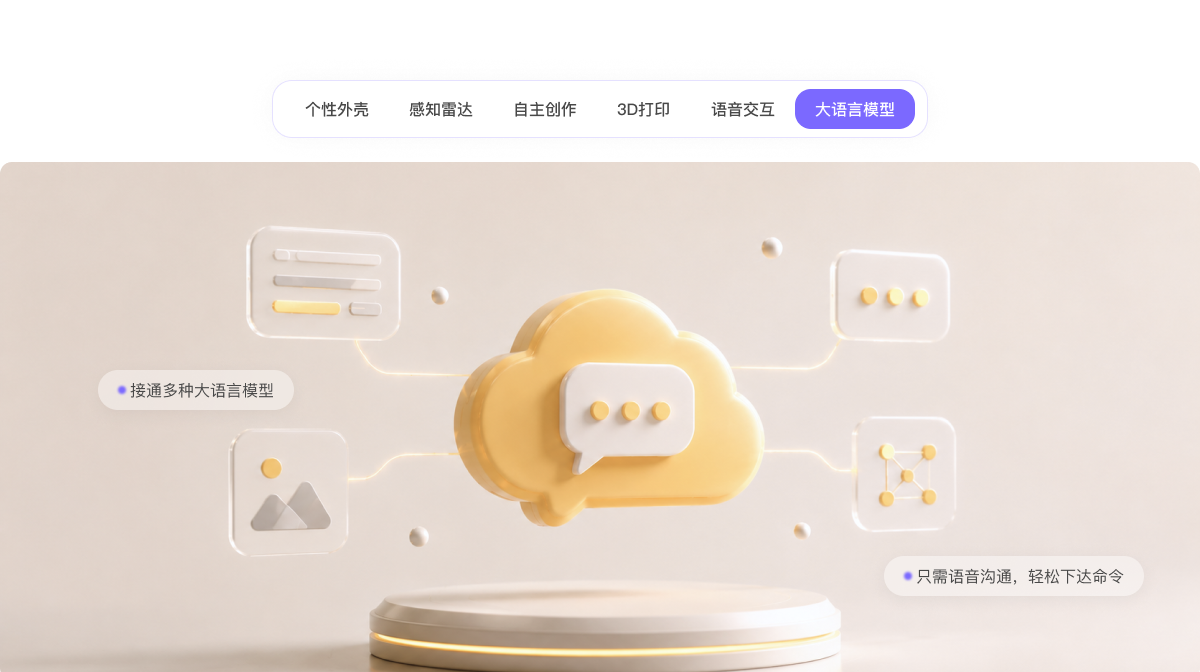
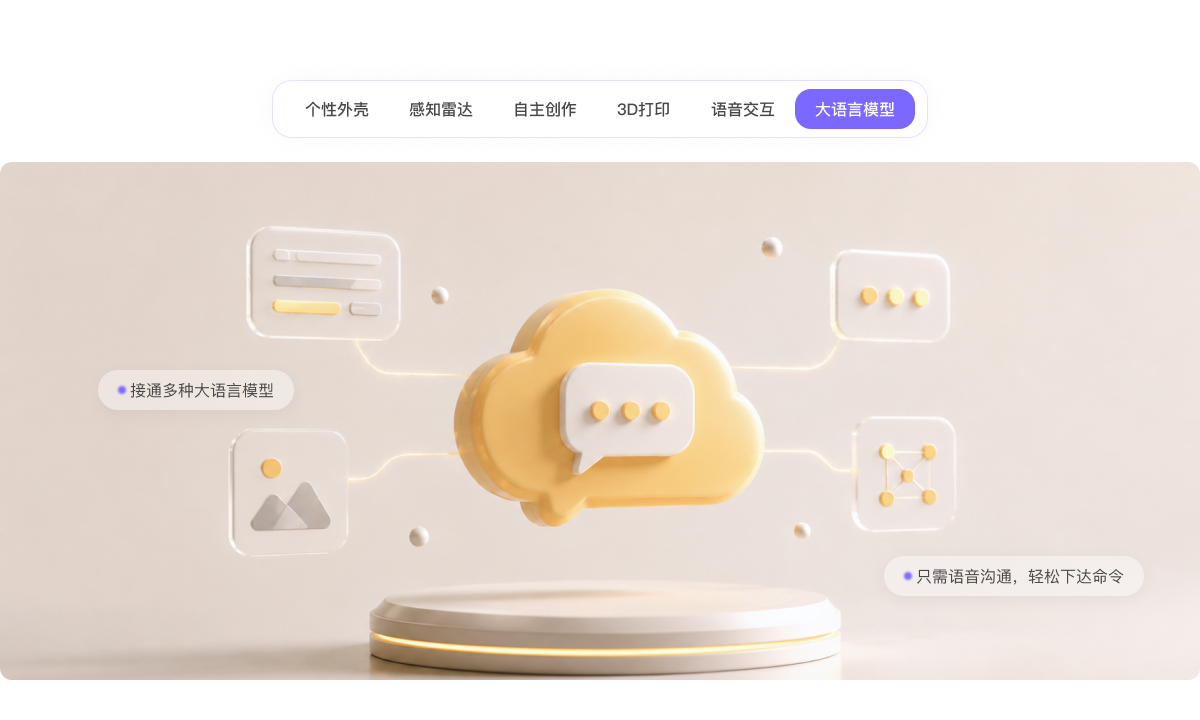
Update web design

diff --git a/index.html b/index.html
@@ -93,10 +93,10 @@
       top: 98px;
       display: block;
       width: 408px;
-      height: 405px;
+      height: auto;
       margin: 0;
       border-radius: 8px;
-      object-fit: cover;
+      object-fit: contain;
     }
 
     .size-detail-frame {
@@ -315,6 +315,48 @@
       white-space: nowrap;
     }
 
+    .size-cable-frame {
+      position: relative;
+      width: 1224px;
+      height: 522px;
+      margin: 0 auto;
+    }
+
+    .asset-frame.content .size-cable-base {
+      width: 1224px;
+      height: 522px;
+      margin: 0;
+    }
+
+    .size-cable-right {
+      position: absolute;
+      top: 132px;
+      left: 728px;
+      display: flex;
+      width: 514px;
+      flex-direction: column;
+      align-items: center;
+      gap: 32px;
+    }
+
+    .asset-frame.content .size-cable-wireframe {
+      width: 514px;
+      height: auto;
+      margin: 0;
+    }
+
+    .size-cable-caption {
+      width: max-content;
+      max-width: 560px;
+      margin: 0;
+      color: #303030;
+      font-size: 16px;
+      font-weight: 400;
+      line-height: 24px;
+      text-align: center;
+      white-space: nowrap;
+    }
+
     .hero-carousel {
       position: relative;
       width: 1440px;
@@ -337,6 +379,40 @@
       opacity: 1;
     }
 
+    .hero-pagination {
+      position: absolute;
+      left: 50%;
+      bottom: 32px;
+      z-index: 3;
+      display: flex;
+      align-items: center;
+      gap: 12px;
+      transform: translateX(-50%);
+    }
+
+    .hero-page-dot {
+      width: 14px;
+      height: 14px;
+      padding: 0;
+      border: 1px solid rgba(255, 255, 255, .72);
+      border-radius: 999px;
+      background: rgba(255, 255, 255, .55);
+      box-shadow: 0 2px 8px rgba(70, 88, 120, .12);
+      cursor: pointer;
+      transition: width .25s ease, background .25s ease, box-shadow .25s ease;
+    }
+
+    .hero-page-dot.is-active {
+      width: 44px;
+      background: #7468ff;
+      box-shadow: 0 4px 12px rgba(116, 104, 255, .28);
+    }
+
+    .hero-page-dot:focus-visible {
+      outline: 2px solid rgba(116, 104, 255, .75);
+      outline-offset: 3px;
+    }
+
     .feature-switcher {
       position: relative;
       width: 1200px;
@@ -347,29 +423,62 @@
       width: 1200px;
     }
 
+    .feature-switcher::before {
+      position: absolute;
+      top: 36px;
+      left: 220px;
+      z-index: 1;
+      width: 760px;
+      height: 124px;
+      border-radius: 0;
+      background: #fff url("assets/background.png?v=20260623") top center / 1440px auto repeat-y;
+      content: "";
+    }
+
     .feature-tab-hit-area {
       position: absolute;
-      top: 72px;
-      left: 272px;
+      top: 70px;
+      left: 260px;
       z-index: 2;
-      display: grid;
-      width: 656px;
-      height: 72px;
+      display: flex;
+      width: 680px;
+      height: 54px;
+      align-items: center;
+      justify-content: space-between;
+      padding: 5px 8px;
       grid-template-columns: repeat(6, 1fr);
+      border: 1px solid #d7d2ff;
+      border-radius: 28px;
+      background: rgba(255, 255, 255, .88);
+      box-shadow: 0 8px 22px rgba(91, 70, 211, .10);
     }
 
     .feature-tab {
+      min-width: 96px;
+      height: 38px;
+      padding: 0 16px;
       border: 0;
-      color: transparent;
-      background: rgba(123, 105, 255, .001);
+      border-radius: 20px;
+      color: #303030;
+      background: transparent;
       cursor: pointer;
+      font-family: inherit;
+      font-size: 15px;
+      font-weight: 500;
+      line-height: 38px;
+      white-space: nowrap;
+      transition: color .2s ease, background .2s ease, box-shadow .2s ease;
+    }
+
+    .feature-tab[aria-selected="true"] {
+      color: #fff;
+      background: #7468ff;
+      box-shadow: 0 8px 18px rgba(116, 104, 255, .22);
     }
 
     .feature-tab:focus-visible {
-      border-radius: 18px;
       outline: 2px solid rgba(123, 105, 255, .8);
-      outline-offset: -6px;
-      background: rgba(123, 105, 255, .08);
+      outline-offset: 2px;
     }
 
     .logo-marquee {
@@ -1065,7 +1174,7 @@
       height: 956px;
     }
 
-    .video-main-cover {
+    .asset-frame.content .video-main-cover {
       position: absolute;
       top: 80px;
       left: 0;
@@ -1075,10 +1184,15 @@
       height: 675px;
       object-fit: cover;
       border-radius: 8px;
+      margin: 0;
     }
 
-    .video-main-cover.is-active {
+    .asset-frame.content .video-main-cover.is-active {
       display: block;
+    }
+
+    .asset-frame.content .video-main-cover[hidden] {
+      display: none !important;
     }
 
     .video-player-layer {
@@ -1289,6 +1403,12 @@
         <img class="hero-slide" src="assets/banner/banner-02.png?v=20260616" width="1440" height="783" alt="XAtom banner 2">
         <img class="hero-slide" src="assets/banner/banner-03.png?v=20260616" width="1440" height="783" alt="XAtom banner 3">
         <img class="hero-slide" src="assets/banner/banner-04.png?v=20260616" width="1440" height="783" alt="XAtom banner 4">
+        <div class="hero-pagination" aria-label="Banner 页码">
+          <button class="hero-page-dot is-active" type="button" aria-label="切换到第 1 张" aria-current="true" data-hero-page="0"></button>
+          <button class="hero-page-dot" type="button" aria-label="切换到第 2 张" data-hero-page="1"></button>
+          <button class="hero-page-dot" type="button" aria-label="切换到第 3 张" data-hero-page="2"></button>
+          <button class="hero-page-dot" type="button" aria-label="切换到第 4 张" data-hero-page="3"></button>
+        </div>
       </div>
     </section>
 
@@ -1304,7 +1424,7 @@
           <p>XAtom 是一款基于智能硬件打造的微型 AI 交互设备，以“小体积、高融合、强智能”为核心设计理念，将人工智能能力浓缩于极致轻巧的硬件形态之中。</p>
           <p>灵活的模块化结构，XAtom 能够无缝嵌入各类日常物品与生活场景，从家居摆件、玩具潮玩到车载设备、文创产品，让传统物件拥有感知、理解与交流的能力。</p>
         </div>
-        <img class="intro-product-img" src="assets/intro/product-crop.png?v=20260623" width="408" height="405" alt="XAtom 产品三色展示">
+        <img class="intro-product-img" src="assets/intro/product.png?v=20260624" width="813" height="909" alt="XAtom 产品三色展示">
       </div>
     </section>
 
@@ -1315,14 +1435,14 @@
 
     <section class="asset-frame content" id="features-main" aria-label="产品特色主图" style="--asset-width: 1200px">
       <div class="feature-switcher" data-feature-switcher>
-        <img id="feature-image" src="assets/04.png?v=20260616" width="1200" height="720" alt="XAtom 产品特色：个性外壳">
+        <img id="feature-image" src="assets/04-html-tabs.png?v=20260624" width="1200" height="720" alt="XAtom 产品特色：个性外壳">
         <div class="feature-tab-hit-area" role="tablist" aria-label="产品特色切换">
-          <button class="feature-tab" type="button" role="tab" aria-selected="true" data-feature-name="个性外壳" data-feature-src="assets/04.png" data-feature-height="720">个性外壳</button>
-          <button class="feature-tab" type="button" role="tab" aria-selected="false" data-feature-name="感知雷达" data-feature-src="assets/产品特色/Property 1=感知雷达.png" data-feature-height="720">感知雷达</button>
-          <button class="feature-tab" type="button" role="tab" aria-selected="false" data-feature-name="自由创作" data-feature-src="assets/产品特色/Property 1=自由创作.png" data-feature-height="720">自由创作</button>
-          <button class="feature-tab" type="button" role="tab" aria-selected="false" data-feature-name="3D打印" data-feature-src="assets/产品特色/Property 1=3D打印.png" data-feature-height="720">3D打印</button>
-          <button class="feature-tab" type="button" role="tab" aria-selected="false" data-feature-name="语音交互" data-feature-src="assets/产品特色/Property 1=语音交互.png" data-feature-height="720">语音交互</button>
-          <button class="feature-tab" type="button" role="tab" aria-selected="false" data-feature-name="大语言模型" data-feature-src="assets/产品特色/Property 1=大语言模型.png" data-feature-height="672">大语言模型</button>
+          <button class="feature-tab" type="button" role="tab" aria-selected="true" data-feature-name="个性外壳" data-feature-src="assets/04-html-tabs.png" data-feature-height="720">个性外壳</button>
+          <button class="feature-tab" type="button" role="tab" aria-selected="false" data-feature-name="感知雷达" data-feature-src="assets/产品特色/Property 1=感知雷达-html-tabs.png" data-feature-height="720">感知雷达</button>
+          <button class="feature-tab" type="button" role="tab" aria-selected="false" data-feature-name="自由创作" data-feature-src="assets/产品特色/Property 1=自由创作-html-tabs.png" data-feature-height="720">自由创作</button>
+          <button class="feature-tab" type="button" role="tab" aria-selected="false" data-feature-name="3D打印" data-feature-src="assets/产品特色/Property 1=3D打印-html-tabs.png" data-feature-height="720">3D打印</button>
+          <button class="feature-tab" type="button" role="tab" aria-selected="false" data-feature-name="语音交互" data-feature-src="assets/产品特色/Property 1=语音交互-html-tabs.png" data-feature-height="720">语音交互</button>
+          <button class="feature-tab" type="button" role="tab" aria-selected="false" data-feature-name="大语言模型" data-feature-src="assets/产品特色/Property 1=大语言模型-clean.png" data-feature-height="720">大语言模型</button>
         </div>
       </div>
     </section>
@@ -1339,7 +1459,7 @@
     <section class="asset-frame content" id="video" aria-label="视频介绍内容" style="--asset-width: 1200px">
       <div class="video-showcase" data-video-showcase>
         <img class="video-cover-img" src="assets/06.png?v=20260616-cover" width="1200" height="956" alt="XAtom 视频介绍封面">
-        <img class="video-main-cover" data-video-main-cover alt="当前视频封面">
+        <img class="video-main-cover" data-video-main-cover alt="" hidden aria-hidden="true">
         <div class="video-player-layer" data-video-player-layer>
           <video id="main-video" src="assets/视频介绍/01.mp4?v=20260616" preload="metadata" playsinline controls></video>
         </div>
@@ -1405,7 +1525,13 @@
     </section>
 
     <section class="asset-frame content" id="size-cable" aria-label="Type-C 充电线尺寸" style="--asset-width: 1224px">
-      <img src="assets/09.png?v=20260616" width="1224" height="522" alt="XAtom Type-C 充电线尺寸">
+      <div class="size-cable-frame">
+        <img class="size-cable-base" src="assets/09-wireframe-base.png?v=20260624b" width="1224" height="522" alt="XAtom Type-C 充电线尺寸">
+        <div class="size-cable-right">
+          <img class="size-cable-wireframe" src="assets/线框图.png?v=20260624" width="676" height="272" alt="XAtom Type-C 线框尺寸图">
+          <p class="size-cable-caption">XAtom机芯长宽高约为2.9cm，约等于三个type-c 充电口宽度</p>
+        </div>
+      </div>
     </section>
 
     <section class="title-frame" id="scenes-title" aria-label="多场景玩法标题">
@@ -1620,17 +1746,36 @@
       if (!carousel) return;
 
       const slides = [...carousel.querySelectorAll(".hero-slide")];
+      const dots = [...carousel.querySelectorAll("[data-hero-page]")];
       let active = 0;
 
       slides.forEach(slide => {
         new Image().src = slide.currentSrc || slide.src;
       });
 
-      setInterval(() => {
+      const showSlide = next => {
         slides[active].classList.remove("is-active");
-        active = (active + 1) % slides.length;
+        dots[active]?.classList.remove("is-active");
+        dots[active]?.removeAttribute("aria-current");
+        active = (next + slides.length) % slides.length;
         slides[active].classList.add("is-active");
+        dots[active]?.classList.add("is-active");
+        dots[active]?.setAttribute("aria-current", "true");
+      };
+
+      let timer = setInterval(() => {
+        showSlide(active + 1);
       }, 4000);
+
+      dots.forEach(dot => {
+        dot.addEventListener("click", () => {
+          clearInterval(timer);
+          showSlide(Number(dot.dataset.heroPage));
+          timer = setInterval(() => {
+            showSlide(active + 1);
+          }, 4000);
+        });
+      });
     })();
 
     (() => {
@@ -1643,7 +1788,7 @@
       const activate = tab => {
         const src = tab.dataset.featureSrc;
         const name = tab.dataset.featureName;
-        image.src = `${src}?v=20260616`;
+        image.src = `${src}?v=20260624d`;
         image.alt = `XAtom 产品特色：${name}`;
         image.height = Number(tab.dataset.featureHeight || 720);
         tabs.forEach(item => {
@@ -1653,7 +1798,7 @@
       };
 
       tabs.forEach((tab, index) => {
-        new Image().src = `${tab.dataset.featureSrc}?v=20260616`;
+        new Image().src = `${tab.dataset.featureSrc}?v=20260624d`;
         tab.tabIndex = index === 0 ? 0 : -1;
         tab.addEventListener("click", () => {
           activate(tab);
@@ -1759,12 +1904,16 @@
         const coverSrc = thumb.dataset.coverSrc;
         if (coverSrc) {
           mainCover.setAttribute("src", `${coverSrc}?v=20260616-cover2`);
+          mainCover.hidden = false;
+          mainCover.setAttribute("aria-hidden", "false");
           mainCover.classList.add("is-active");
           return;
         }
 
-        mainCover.removeAttribute("src");
         mainCover.classList.remove("is-active");
+        mainCover.hidden = true;
+        mainCover.setAttribute("aria-hidden", "true");
+        mainCover.removeAttribute("src");
       };
 
       const switchVideo = thumb => {
